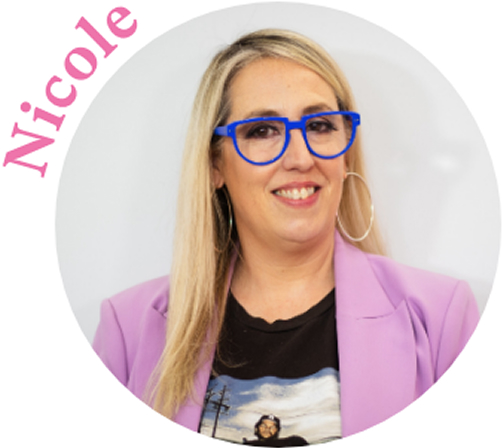
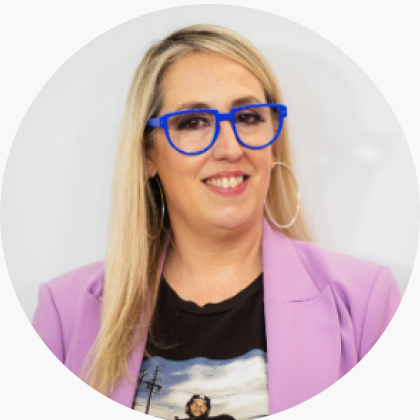
Staff images

diff --git a/src/index.html b/src/index.html
@@ -339,11 +339,11 @@
             </h2>
           </div>
           <!-- Staff  -->
-        <div class="flex flex-wrap justify-center pt-12 pb-4">
+        <div class="flex flex-wrap justify-center pt-12 pb-4 lg:w-11/12 mx-auto">
             <!-- Staff Member -->
             <div class="relative flex flex-col items-center justify-center w-full mb-2 md:w-6/12 lg:w-4/12">
                 <!-- Staff Image  -->
-                <img src="placeholder-2.jpg"  class="overflow-hidden rounded-full size-60"/>
+                <img src="antoinette.jpg"  class="overflow-hidden rounded-full size-60"/>
                 
                 <!-- Name on path  -->
                 <svg viewBox="0 0 220 220"  xmlns="http://www.w3.org/2000/svg" class="absolute -top-[2rem] left-[1rem] size-full">
@@ -392,7 +392,7 @@
             <!-- Staff Member -->
             <div class="relative flex flex-col items-center justify-center w-full mb-2 md:w-6/12 lg:w-4/12">
                 <!-- Staff Image  -->
-                <img src="placeholder-2.jpg"  class="overflow-hidden rounded-full size-60"/>
+                <img src="hannah.jpg"  class="overflow-hidden rounded-full size-60"/>
                 
                 <!-- Name on path  -->
                 <svg viewBox="0 0 220 220"  xmlns="http://www.w3.org/2000/svg" class="absolute -top-[2rem] left-[1rem] size-full">
@@ -443,7 +443,7 @@
             <!-- Staff Member -->
             <div class="relative flex flex-col items-center justify-center w-full mb-2 md:w-6/12 lg:w-4/12">
                 <!-- Staff Image  -->
-                <img src="placeholder-2.jpg"  class="overflow-hidden rounded-full size-60"/>
+                <img src="nicole.jpg"  class="overflow-hidden rounded-full size-60"/>
                 
                 <!-- Name on path  -->
                 <svg viewBox="0 0 220 220"  xmlns="http://www.w3.org/2000/svg" class="absolute -top-[2rem] left-[1rem] size-full">
@@ -494,7 +494,7 @@
             <!-- Staff Member -->
             <div class="relative flex-col items-center justify-center hidden w-full mb-2 md:flex md:w-6/12 lg:w-4/12">
                 <!-- Staff Image  -->
-                <img src="placeholder-2.jpg"  class="overflow-hidden rounded-full size-60"/>
+                <img src="candice.jpg"  class="overflow-hidden rounded-full size-60"/>
                 
                 <svg viewBox="0 0 220 220"  xmlns="http://www.w3.org/2000/svg" class="absolute -top-[2rem] left-[1rem] size-full">
                   <!-- Circle Path (invisible) -->
@@ -541,7 +541,7 @@
             <!-- Staff Member -->
             <div class="relative flex-col items-center justify-center hidden w-full mb-2 lg:flex md:w-6/12 lg:w-4/12">
                 <!-- Staff Image  -->
-                <img src="placeholder-2.jpg"  class="overflow-hidden rounded-full size-60"/>
+                <img src="caitlin.jpg"  class="overflow-hidden rounded-full size-60"/>
                 
                 <!-- Name on path  -->
                 <svg viewBox="0 0 220 220"  xmlns="http://www.w3.org/2000/svg" class="absolute -top-[2rem] left-[1rem] size-full">
